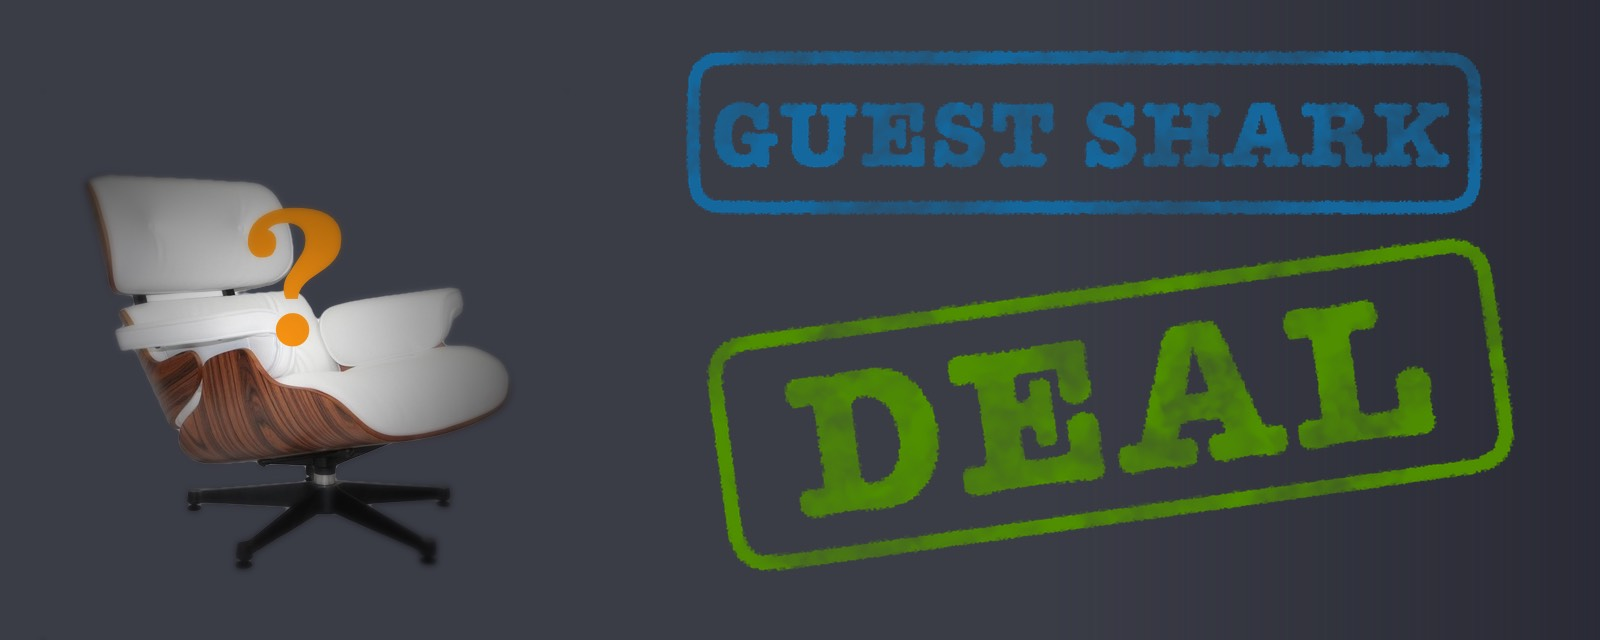
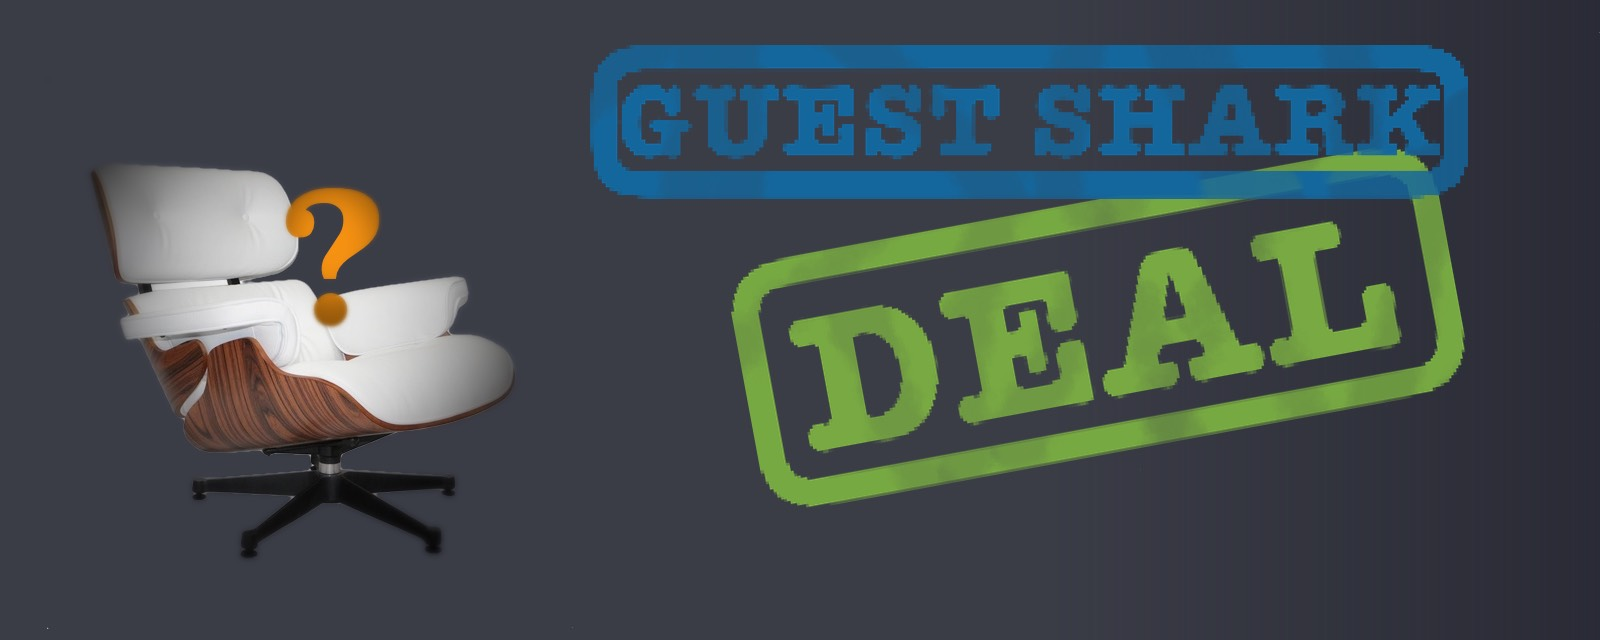
Added update images, updated skin to display them.

diff --git a/SkinStatsForSharks.php b/SkinStatsForSharks.php
@@ -11,6 +11,7 @@ class SkinStatsForSharks extends SkinTemplate {
 	public $is_deal = false;
 	public $is_shark_category = false;
 	public $is_special_title = false;
+	public $is_update = false;
 	public $canonicalURL;
 
 	/**
@@ -48,6 +49,7 @@ class SkinStatsForSharks extends SkinTemplate {
 
 		$this->is_deal = $this->hasCategory($categories['hidden'], 'Deals');
 		$this->no_deal = $this->hasCategory($categories['hidden'], 'No Deal');
+		$this->is_update = $this->hasCategory($categories['hidden'], 'Updates');
 
 		if ($this->is_deal && !$this->no_deal) {
 			$has_mark = $this->hasCategory($categories['normal'], 'Mark Cuban');
@@ -151,68 +153,164 @@ class SkinStatsForSharks extends SkinTemplate {
 			if ($num_guests > 0) $num_sharks += $num_guests;
 
 			if ($has_mark && $has_lori) {
-				$this->bannerImage = 'https://www.statsforsharks.com/skins/StatsForSharks/images/banner-mark-lori.jpg';
+				if ($this->is_update) {
+					$this->bannerImage = 'https://www.statsforsharks.com/skins/StatsForSharks/images/banner-mark-lori-updates.jpg';
+				} else {
+					$this->bannerImage = 'https://www.statsforsharks.com/skins/StatsForSharks/images/banner-mark-lori.jpg';
+				}
 				$this->sharksInvolved = "Mark Cuban & Lori Greiner";
+
 			} else if ($has_mark && $has_kevin) {
-				$this->bannerImage = 'https://www.statsforsharks.com/skins/StatsForSharks/images/banner-mark-kevin.jpg';
+				if ($this->is_update) {
+					$this->bannerImage = 'https://www.statsforsharks.com/skins/StatsForSharks/images/banner-mark-kevin-updates.jpg';
+				} else {
+					$this->bannerImage = 'https://www.statsforsharks.com/skins/StatsForSharks/images/banner-mark-kevin.jpg';
+				}
 				$this->sharksInvolved = "Mark Cuban & Kevin O'Leary";
+
 			} else if ($has_mark && $has_robert) {
-				$this->bannerImage =  'https://www.statsforsharks.com/skins/StatsForSharks/images/banner-mark-robert.jpg';
+				if ($this->is_update) {
+					$this->bannerImage =  'https://www.statsforsharks.com/skins/StatsForSharks/images/banner-mark-robert-updates.jpg';
+				} else {
+					$this->bannerImage =  'https://www.statsforsharks.com/skins/StatsForSharks/images/banner-mark-robert.jpg';
+				}
 				$this->sharksInvolved = "Mark Cuban & Robert Herjavec";
+
 			} else if ($has_mark && $has_barb) {
-				$this->bannerImage = 'https://www.statsforsharks.com/skins/StatsForSharks/images/banner-mark-barbara.jpg';
+				if ($this->is_update) {
+					$this->bannerImage = 'https://www.statsforsharks.com/skins/StatsForSharks/images/banner-mark-barbara-updates.jpg';
+				} else {
+					$this->bannerImage = 'https://www.statsforsharks.com/skins/StatsForSharks/images/banner-mark-barbara.jpg';
+				}
 				$this->sharksInvolved = "Mark Cuban & Barbara Corcoran";
+
 			} else if ($has_mark && $has_daymond) {
-				$this->bannerImage = 'https://www.statsforsharks.com/skins/StatsForSharks/images/banner-mark-daymond.jpg';
+				if ($this->is_update) {
+					$this->bannerImage = 'https://www.statsforsharks.com/skins/StatsForSharks/images/banner-mark-daymond-updates.jpg';
+				} else {
+					$this->bannerImage = 'https://www.statsforsharks.com/skins/StatsForSharks/images/banner-mark-daymond.jpg';
+				}
 				$this->sharksInvolved = "Mark Cuban & Daymond John";
+
 			} else if ($has_mark && $has_guest) {
-				$this->bannerImage = 'https://www.statsforsharks.com/skins/StatsForSharks/images/banner-mark-guest-deal.jpg';
+				if ($this->is_update) {
+					$this->bannerImage = 'https://www.statsforsharks.com/skins/StatsForSharks/images/banner-mark-guest-deal-updates.jpg';
+				} else {
+					$this->bannerImage = 'https://www.statsforsharks.com/skins/StatsForSharks/images/banner-mark-guest-deal.jpg';
+				}
 				$this->sharksInvolved = "Mark Cuban & Guest Shark";
+
 			} else if ($has_lori && $has_robert && $has_kevin) {
 				$this->bannerImage = 'https://www.statsforsharks.com/skins/StatsForSharks/images/banner-kevin-robert-lori.jpg';
 				$this->sharksInvolved = "Lori Greiner, Kevin O'Leary & Robert Herjavec";
+
 			} else if ($has_lori && $has_robert) {
-				$this->bannerImage = 'https://www.statsforsharks.com/skins/StatsForSharks/images/banner-lori-robert.jpg';
+				if ($this->is_update) {
+					$this->bannerImage = 'https://www.statsforsharks.com/skins/StatsForSharks/images/banner-lori-robert-updates.jpg';
+				} else {
+					$this->bannerImage = 'https://www.statsforsharks.com/skins/StatsForSharks/images/banner-lori-robert.jpg';
+				}
 				$this->sharksInvolved = "Lori Greiner & Robert Herjavec";
+
 			} else if ($has_lori && $has_kevin) {
-				$this->bannerImage = 'https://www.statsforsharks.com/skins/StatsForSharks/images/banner-lori-kevin.jpg';
+				if ($this->is_update) {
+					$this->bannerImage = 'https://www.statsforsharks.com/skins/StatsForSharks/images/banner-lori-kevin-updates.jpg';
+				} else {
+					$this->bannerImage = 'https://www.statsforsharks.com/skins/StatsForSharks/images/banner-lori-kevin.jpg';
+				}
 				$this->sharksInvolved = "Lori Greiner & Kevin O'Leary";
+
 			} else if ($has_lori && $has_guest) {
 				$this->bannerImage = 'https://www.statsforsharks.com/skins/StatsForSharks/images/banner-lori-guest-deal.jpg';
 				$this->sharksInvolved = "Lori Greiner & Guest Shark";
+
 			} else if ($has_robert && $has_kevin) {
-				$this->bannerImage = 'https://www.statsforsharks.com/skins/StatsForSharks/images/banner-robert-kevin.jpg';
+				if ($this->is_update) {
+					$this->bannerImage = 'https://www.statsforsharks.com/skins/StatsForSharks/images/banner-robert-kevin-updates.jpg';
+				} else {
+					$this->bannerImage = 'https://www.statsforsharks.com/skins/StatsForSharks/images/banner-robert-kevin.jpg';
+				}
 				$this->sharksInvolved = "Robert Herjavec & Kevin O'Leary";
+
 			} else if ($has_robert && $has_daymond) {
-				$this->bannerImage = 'https://www.statsforsharks.com/skins/StatsForSharks/images/banner-robert-daymond.jpg';
+				if ($this->is_update) {
+					$this->bannerImage = 'https://www.statsforsharks.com/skins/StatsForSharks/images/banner-robert-daymond-updates.jpg';
+				} else {
+					$this->bannerImage = 'https://www.statsforsharks.com/skins/StatsForSharks/images/banner-robert-daymond.jpg';
+				}
 				$this->sharksInvolved = "Robert Herjavec & Daymond John";
+
 			} else if ($has_robert && $has_barb) {
-				$this->bannerImage = 'https://www.statsforsharks.com/skins/StatsForSharks/images/banner-robert-barbara.jpg';
+				if ($this->is_update) {
+					$this->bannerImage = 'https://www.statsforsharks.com/skins/StatsForSharks/images/banner-robert-barbara-updates.jpg';
+				} else {
+					$this->bannerImage = 'https://www.statsforsharks.com/skins/StatsForSharks/images/banner-robert-barbara.jpg';
+				}
 				$this->sharksInvolved = "Robert Herjavec & Barbara Corcoran";
+
 			} else if ($has_lori) {
-				$this->bannerImage = 'https://www.statsforsharks.com/skins/StatsForSharks/images/banner-lori-greiner-deal.jpg';
+				if ($this->is_update) {
+					$this->bannerImage = 'https://www.statsforsharks.com/skins/StatsForSharks/images/banner-lori-greiner-deal-updates.jpg';
+				} else {
+					$this->bannerImage = 'https://www.statsforsharks.com/skins/StatsForSharks/images/banner-lori-greiner-deal.jpg';
+				}
 				$this->sharksInvolved = "Lori Greiner";
+
 			} else if ($has_mark) {
-				$this->bannerImage = 'https://www.statsforsharks.com/skins/StatsForSharks/images/banner-mark-cuban-deal.jpg';
+				if ($this->is_update) {
+					$this->bannerImage = 'https://www.statsforsharks.com/skins/StatsForSharks/images/banner-mark-cuban-deal-updates.jpg';
+				} else {
+					$this->bannerImage = 'https://www.statsforsharks.com/skins/StatsForSharks/images/banner-mark-cuban-deal.jpg';
+				}
 				$this->sharksInvolved = "Mark Cuban";
+
 			} else if ($has_kevin) {
-				$this->bannerImage = 'https://www.statsforsharks.com/skins/StatsForSharks/images/banner-kevin-oleary-deal.jpg';
+				if ($this->is_update) {
+					$this->bannerImage = 'https://www.statsforsharks.com/skins/StatsForSharks/images/banner-kevin-oleary-deal-updates.jpg';
+				} else {
+					$this->bannerImage = 'https://www.statsforsharks.com/skins/StatsForSharks/images/banner-kevin-oleary-deal.jpg';
+				}
 				$this->sharksInvolved = "Kevin O'Leary";
+
 			} else if ($has_robert) {
-				$this->bannerImage = 'https://www.statsforsharks.com/skins/StatsForSharks/images/banner-robert-herjavec-deal.jpg';
+				if ($this->is_update) {
+					$this->bannerImage = 'https://www.statsforsharks.com/skins/StatsForSharks/images/banner-robert-herjavec-deal-updates.jpg';
+				} else {
+					$this->bannerImage = 'https://www.statsforsharks.com/skins/StatsForSharks/images/banner-robert-herjavec-deal.jpg';
+				}
 				$this->sharksInvolved = "Robert Herjavec";
+
 			} else if ($has_barb) {
-				$this->bannerImage = 'https://www.statsforsharks.com/skins/StatsForSharks/images/banner-barbara-corcoran-deal.jpg';
+				if ($this->is_update) {
+					$this->bannerImage = 'https://www.statsforsharks.com/skins/StatsForSharks/images/banner-barbara-corcoran-deal-updates.jpg';
+				} else {
+					$this->bannerImage = 'https://www.statsforsharks.com/skins/StatsForSharks/images/banner-barbara-corcoran-deal.jpg';
+				}
 				$this->sharksInvolved = "Barbara Corcoran";
+
 			} else if ($has_daymond) {
-				$this->bannerImage = 'https://www.statsforsharks.com/skins/StatsForSharks/images/banner-daymond-john-deal.jpg';
+				if ($this->is_update) {
+					$this->bannerImage = 'https://www.statsforsharks.com/skins/StatsForSharks/images/banner-daymond-john-deal-updates.jpg';
+				} else {
+					$this->bannerImage = 'https://www.statsforsharks.com/skins/StatsForSharks/images/banner-daymond-john-deal.jpg';
+				}
 				$this->sharksInvolved = "Daymond John";
+
 			} else {
-				$this->bannerImage = 'https://www.statsforsharks.com/skins/StatsForSharks/images/guest-shark-deal.jpg';
+				if ($this->is_update) {
+					$this->bannerImage = 'https://www.statsforsharks.com/skins/StatsForSharks/images/guest-shark-deal-updates.jpg';
+				} else {
+					$this->bannerImage = 'https://www.statsforsharks.com/skins/StatsForSharks/images/guest-shark-deal.jpg';
+				}
 				$this->sharksInvolved = "Guest Shark";
+
 			}
 		} else if ($this->is_deal && $this->no_deal) {
-			$this->bannerImage = 'https://www.statsforsharks.com/skins/StatsForSharks/images/banner-no-deal.jpg';
+			if ($this->is_update) {
+				$this->bannerImage = 'https://www.statsforsharks.com/skins/StatsForSharks/images/banner-no-deal-updates.jpg';
+			} else {
+				$this->bannerImage = 'https://www.statsforsharks.com/skins/StatsForSharks/images/banner-no-deal.jpg';
+			}
 
 		} else if ($titleText == "Main Page") {
 			$title = "Tracking Every Investment Made on Shark Tank";
@@ -327,7 +425,11 @@ class SkinStatsForSharks extends SkinTemplate {
 
 			}
 			$desc = $titleText." entered the Shark Tank and made a deal with ".$shark_text.".";
-			if (strlen($desc) < 245) $desc .= " View our statistics & graphs to see how it holds up.";
+			if (strlen($desc) < 245 && $this->is_update) {
+				$desc .= " This deal features updates from a later episode!";
+			} else if (strlen($desc) < 245) {
+				$desc .= " View our statistics & graphs to see how it holds up.";
+			}
 			$out->addMeta('og:description', $desc);
 		} else if ($this->no_deal) { 
 			$desc = $titleText." entered the Shark Tank looking for a deal but ended up leaving without a shark biting.";
